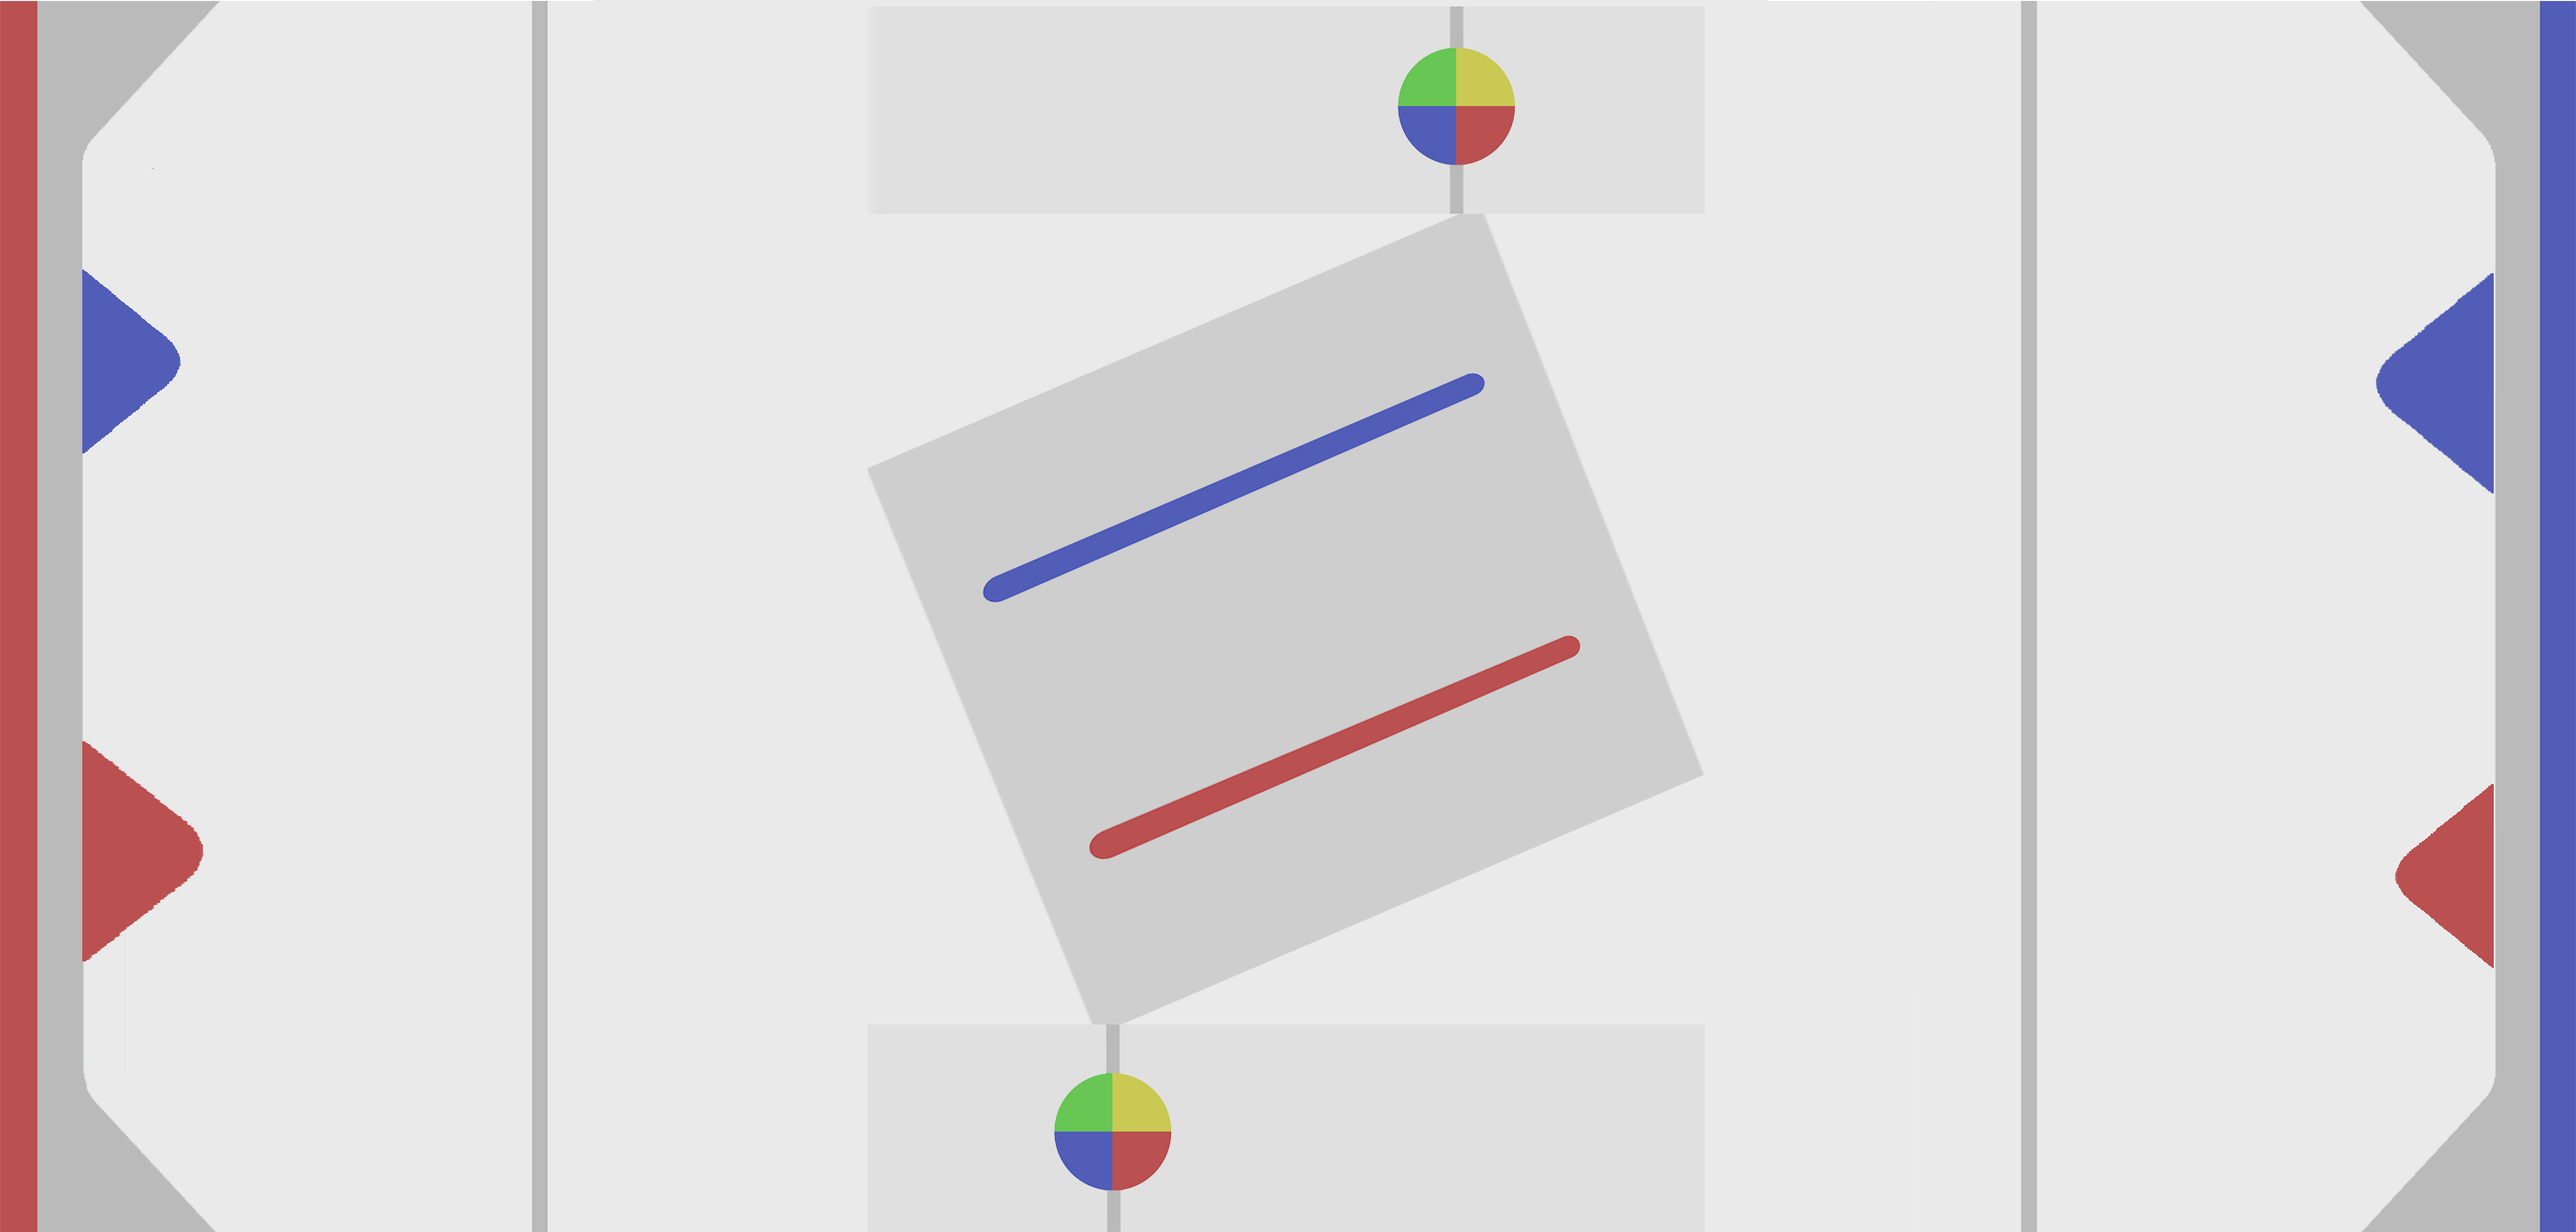
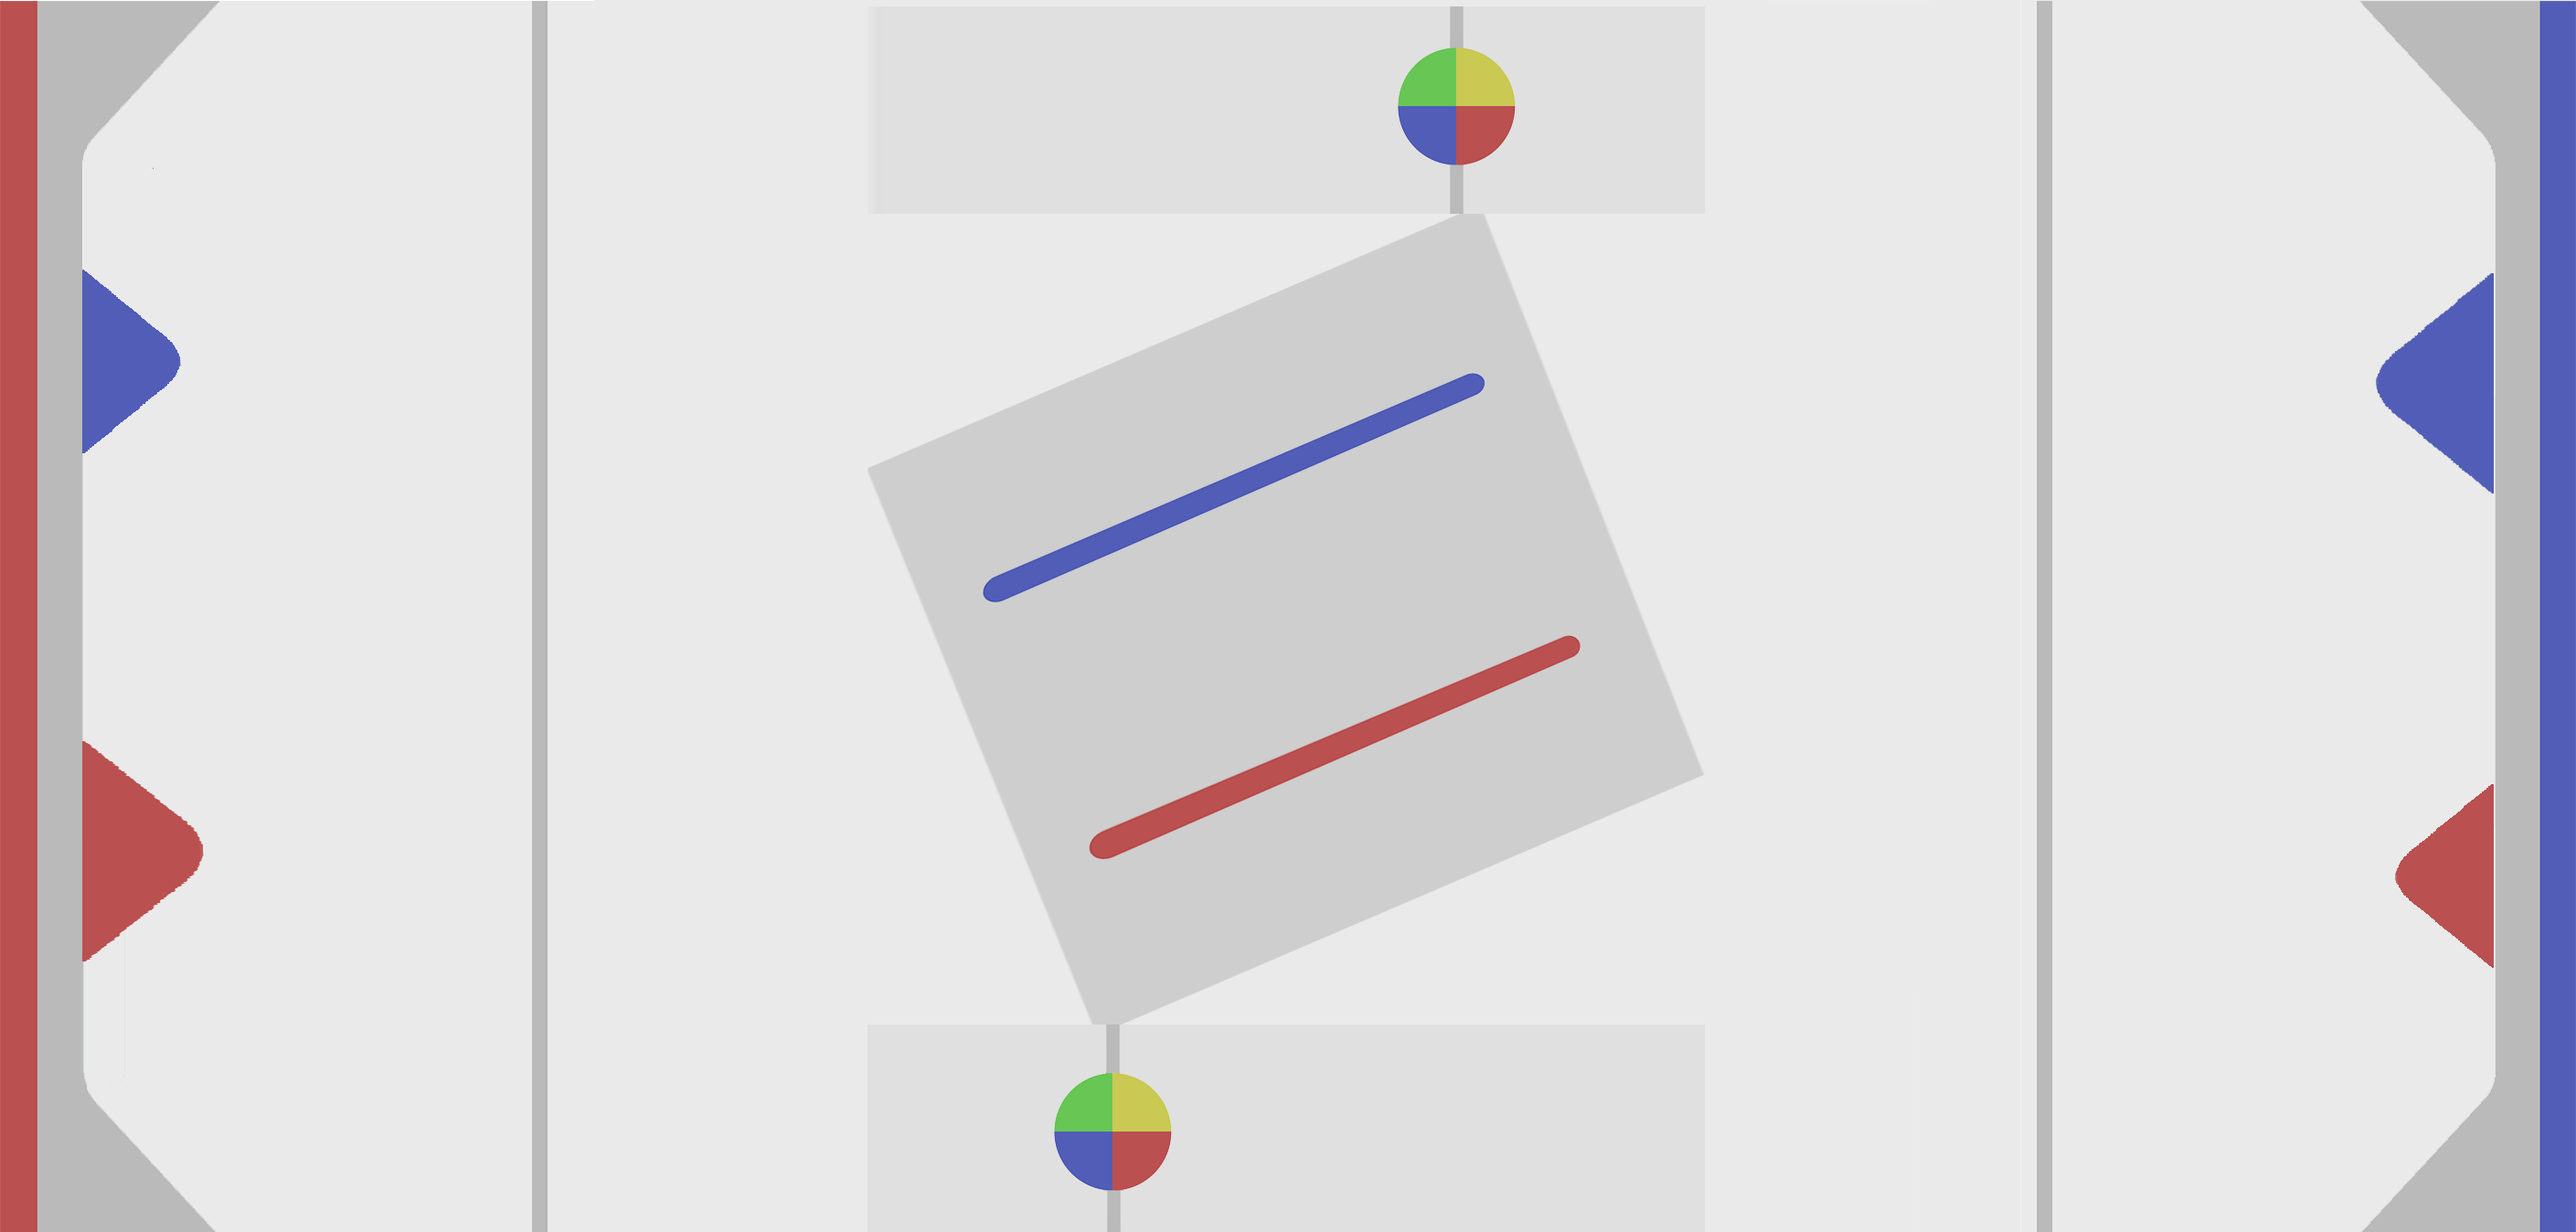
Fix QR and role selection, prepare for scouter tarining

Changed region(s): [[0.7807, 0.0, 0.8119, 1.0]]

diff --git a/Assets/Scripts/Location.cs b/Assets/Scripts/Location.cs
@@ -11,7 +11,7 @@ public class Location : MonoBehaviour
     public Canvas canvas;
     public Image field;
     public Image grid;
-    public Image robotIcon;
+    public Image robot;
 
     public GameObject leftControls;
     public Button leftInnerPlus;
@@ -64,6 +64,7 @@ public class Location : MonoBehaviour
     private const int gridWidth = 15;
     private const int gridHeight = 9;
     private float cellSize;
+    private bool flipY;
 
     private float _ratio;
 
@@ -93,18 +94,27 @@ public class Location : MonoBehaviour
 
             cellSize = screenWidth / gridWidth * 1642f / 2048f;
         }
-        robotIcon.enabled = false;
+        robot.enabled = false;
 
         float xRot = 0, yRot = 0;
+
+        if(Variables.currentLocation.side)
+            flipY = !flipY;
+        if(Constants.flipLocation)
+            flipY = !flipY;
+        if(!Variables.currentLocation.red ^ Variables.currentLocation.side)
+            flipY = !flipY;
+        
         if(!Variables.currentLocation.red ^ Variables.currentLocation.side) 
             yRot = 180;
         if(Constants.flipLocation) 
             xRot = 180;
+
         field.transform.localRotation = Quaternion.Euler(xRot, yRot, 0);
         if(Variables.currentLocation.side) 
             grid.transform.localRotation = Quaternion.Euler(0, 180, 0);
 
-        Variables.currentLocation.side = false;
+        // Variables.currentLocation.side = false;
         if(Variables.currentLocation.side) {
             rightControls.SetActive(false);
 
@@ -213,15 +223,21 @@ public class Location : MonoBehaviour
         x *= 1 / _ratio;
         y *= 1 / _ratio;
         if(x >= 0 && y >= 0) {
+            if(Variables.currentLocation.side) {
+                x = canvas.GetComponent<RectTransform>().rect.width - x;   
+            } 
             x -= topLeft.x;
             y -= bottomRight.y;
 
             int cellX = (int)(x / cellSize);
             int cellY = (int)(y / cellSize);
+
+            if(flipY)
+                cellY = gridHeight - cellY - 1;
             if(cellX >= 15 || cellY >= 9) return;
 
             Debug.Log(cellX + ", " + cellY);
-            
+
             setIconPosition(cellX, cellY);
 
             Variables.currentLocation.currentCycle.x = cellX;
@@ -231,10 +247,17 @@ public class Location : MonoBehaviour
     }
 
     void setIconPosition(int cellX, int cellY) {
-        robotIcon.rectTransform.sizeDelta = new Vector2(cellSize * 0.85f, cellSize * 0.85f);
-        Vector3 cellCenter = new Vector3((cellX + 0.5f) * cellSize + topLeft.x, (cellY + 0.5f) * cellSize + bottomRight.y / 1.1f, 10f) * canvas.scaleFactor;
-        robotIcon.transform.position = Camera.main.ScreenToWorldPoint(cellCenter);
-        robotIcon.enabled = true;
+        Vector3 cellCenter;
+        if(flipY)
+            cellY = gridHeight - cellY - 1;
+        if(Variables.currentLocation.side) {
+            cellCenter = new Vector3(canvas.GetComponent<RectTransform>().rect.width - (cellX + 0.5f) * cellSize - topLeft.x, (cellY + 0.5f) * cellSize + bottomRight.y / 1.1f, 10f) * canvas.scaleFactor;
+        } else {
+            cellCenter = new Vector3((cellX + 0.5f) * cellSize + topLeft.x, (cellY + 0.5f) * cellSize + bottomRight.y / 1.1f, 10f) * canvas.scaleFactor;
+        }
+        robot.rectTransform.sizeDelta = new Vector2(cellSize * 0.85f, cellSize * 0.85f);
+        robot.transform.position = Camera.main.ScreenToWorldPoint(cellCenter);
+        robot.enabled = true;
     }
 
     void outerPlusHandler() {
@@ -277,7 +300,7 @@ public class Location : MonoBehaviour
     }
 
     void submit() {
-        robotIcon.enabled = false;
+        robot.enabled = false;
         if(isAuton) 
             Variables.currentLocation.autonCycles.Add(Variables.currentLocation.currentCycle);
         else
@@ -304,7 +327,7 @@ public class Location : MonoBehaviour
         if(defenseTimestamp != 0) {
             Variables.currentLocation.defenseTime += currentTime() - defenseTimestamp;
         }
-        SceneManager.LoadScene("AfterLocation");
+        SceneManager.LoadScene("Endgame");
     }
  
     static int currentTime() {

diff --git a/Assets/Scripts/util/QRGenerator.cs b/Assets/Scripts/util/QRGenerator.cs
@@ -24,10 +24,33 @@ public class QRGenerator
         {"z", "11000111100"}, {"%", "110001111001"}
     };
 
-    public static Texture2D generateQR(MatchData data, int width, int height)
-    {
+    public static Texture2D[] generateQR(String binary, int width, int height) {
+        int QR_THRESHOLD = 400;
+        int MAX_EXTRA_BITS = 25; // if the last qr is small, just append it to the previous
+
+        int numQRs = Math.Min((int)(Math.Ceiling((double)binary.Length / QR_THRESHOLD)), 8);
+        if(binary.Length % QR_THRESHOLD <= MAX_EXTRA_BITS) {
+            numQRs--;
+        }
+
+        Debug.Log(binary);
+        Debug.Log(binary.Length);
+        Debug.Log(numQRs);
+
+        Texture2D[] ret = new Texture2D[numQRs];
+
+        int i = 0;
+        for(;i < numQRs - 1;i ++) {
+            ret[i] = generateBinaryTexture(ensureBits(i, 3) + ensureBits(numQRs - 1, 3) + binary.Substring(i * QR_THRESHOLD, QR_THRESHOLD), width, height);
+        }
+        ret[i] = generateBinaryTexture(ensureBits(i, 3) + ensureBits(numQRs - 1, 3) + binary.Substring(i * QR_THRESHOLD), width, height);
+
+        return ret;
+    }
+
+    public static Texture2D generateBinaryTexture(String binary, int width, int height) {
         var hints = new Dictionary<EncodeHintType, object> { {EncodeHintType.MARGIN, 2} };
-        BitMatrix bitMatrix = new MultiFormatWriter().encode(getByteString(getBinaryString(data)), BarcodeFormat.QR_CODE, width, height, hints);
+        BitMatrix bitMatrix = new MultiFormatWriter().encode(getByteString(binary), BarcodeFormat.QR_CODE, width, height, hints);
         Color[] pixels = new Color[bitMatrix.Width * bitMatrix.Height];
         int pos = 0;
         for (int y = 0; y < bitMatrix.Height; y++)

diff --git a/Assets/Scripts/QR.cs b/Assets/Scripts/QR.cs
@@ -9,6 +9,8 @@ public class QR : MonoBehaviour
 {
     public RawImage QRRawImage;
     public Button doneButton;
+    private Texture2D[] textures;
+    private int qrIndex;
 
     private int width = 600;
     private int height = 600;
@@ -16,14 +18,25 @@ public class QR : MonoBehaviour
     // Start is called before the first frame update
     void Start()
     {
-        QRRawImage.texture = QRGenerator.generateQR(Variables.currentMatch, width, height);
+        if(Constants.getRoleName() == "Location")
+            textures = QRGenerator.generateQR(QRGenerator.getBinaryString(Variables.currentLocation), width, height);
+        else
+            textures = QRGenerator.generateQR(QRGenerator.getBinaryString(Variables.currentMatch), width, height);
         QRRawImage.rectTransform.sizeDelta = new Vector2(width, height);
+        QRRawImage.texture = textures[qrIndex];
+
+        InvokeRepeating("switchQR", 0, 1/4f);
 
         doneButton.onClick.AddListener(Done);
     }
 
+    void switchQR() {
+        QRRawImage.texture = textures[++qrIndex % textures.Length];
+        qrIndex %= textures.Length;
+    }
+
     void Done()
     {
-       SceneManager.LoadScene("MainMenu"); 
+       SceneManager.LoadScene("MainMenu");
     }  
 }

diff --git a/Assets/Scripts/RoleSelection.cs b/Assets/Scripts/RoleSelection.cs
@@ -8,15 +8,22 @@ using TMPro;
 public class RoleSelection : MonoBehaviour
 {
     public Button button;
+    public Toggle flipLocationScouting;
     public TMP_Dropdown dropdown;
 
     // Start is called before the first frame update
     void Start() {
         button.onClick.AddListener(SetRole);
+
+        if(Constants.flipLocation) {
+            flipLocationScouting.isOn = true;
+        }
     }
 
     void SetRole() {
         Constants.setRole(dropdown.value);
+        Constants.setFlipped(flipLocationScouting.isOn);
+
         SceneManager.LoadScene("MainMenu");
 
         // leftFlip.onClick.AddListener(() => {

diff --git a/Assets/Scripts/util/Constants.cs b/Assets/Scripts/util/Constants.cs
@@ -12,7 +12,7 @@ using UnityEngine;
 // Update matchtemas
 public class Constants : MonoBehaviour
 {
-    public const string versionString = "Version 0.2.3 (Development)";
+    public const string versionString = "Version 1.0.1 (Scouter Training)";
 
     // List of usernames who use the app
     public static readonly string[] usernames = {
